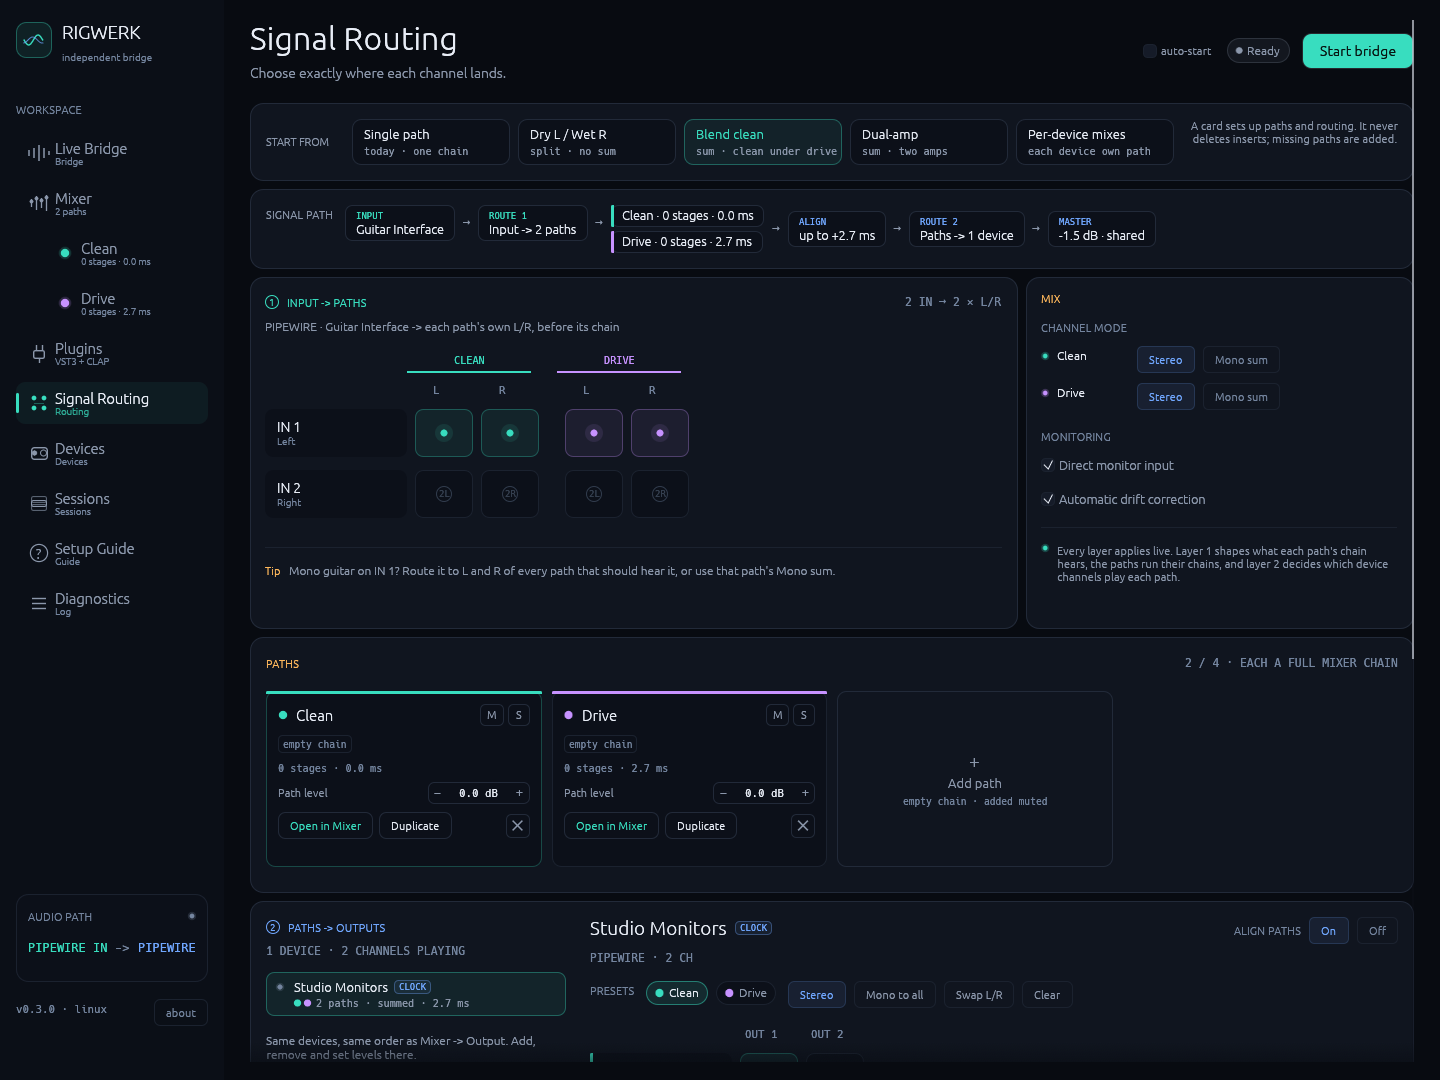
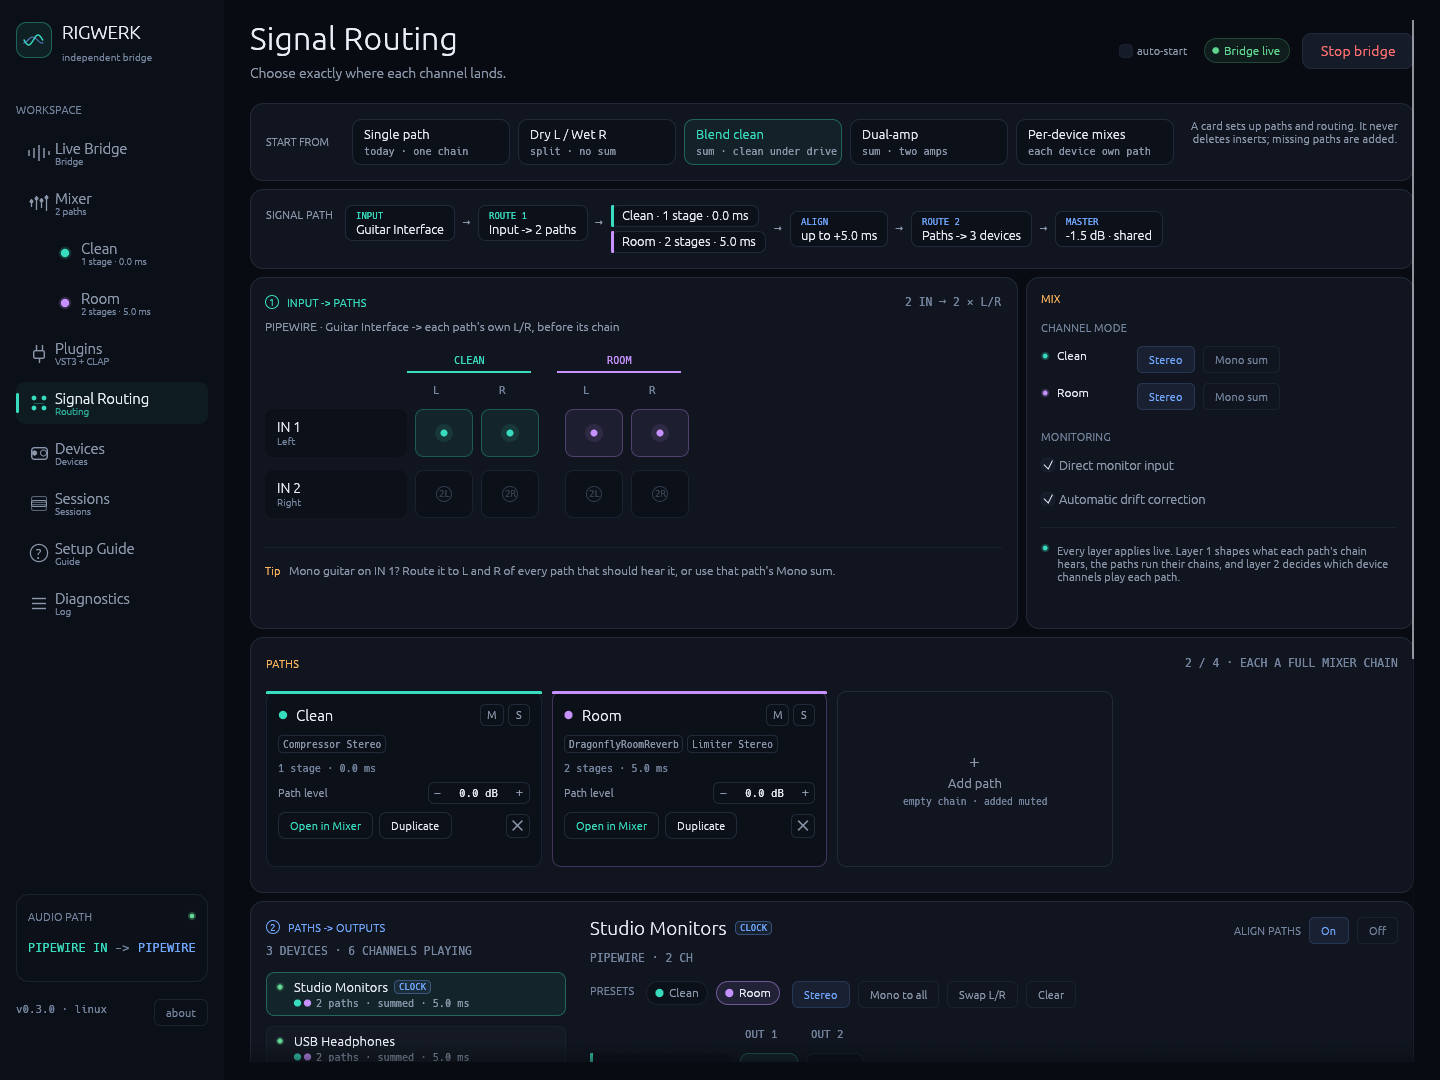
Retake README screenshots with the showcase setup
- Live, Mixer, Signal Routing, Plugins and Devices from one setup: two
  paths with real inserts, three outputs, a running bridge
- Add the Plugins screenshot and document the showcase commands

Claude-Session: https://claude.ai/code/session_018r1ZSrQS7CXbuCRYGBbM1v

diff --git a/README.md b/README.md
@@ -26,6 +26,8 @@ it is ASIO and/or WASAPI. Between them sits an async ring, a short mixer rack
 
 ![Signal Routing](docs/screenshots/routing.png)
 
+![Plugins](docs/screenshots/plugins.png)
+
 ![Devices](docs/screenshots/devices.png)
 
 ## Multiple signal paths
@@ -92,30 +94,41 @@ priority, a plugin chain that overloads the CPU can starve the desktop.
 cargo test
 ```
 
-Screenshots for docs (fixed 1440×1080 window):
+Screenshots for docs (fixed 1440×1080 window). Every README screenshot uses
+the same `showcase` setup: Blend clean (paths Clean and Room) with real
+inserts, a second output sink as a follower plus RigWerk Out, and a running
+bridge.
 
 ```bash
 # Wayland cannot honor client resize; --screenshot drops to X11/XWayland.
-export RIGWERK_ROUTING_SETUP=blend   # Live, Mixer and Routing show two paths
-for page in live mixer routing; do
+export RIGWERK_ROUTING_SETUP=showcase RIGWERK_SCREENSHOT_START=1
+export RIGWERK_SCREENSHOT_PLUGINS="1=/usr/lib/clap/lsp-plugins-clap.clap#Compressor Stereo;\
+2=/usr/lib/vst3/DragonflyRoomReverb.vst3;\
+2=/usr/lib/clap/lsp-plugins-clap.clap#Limiter Stereo"
+for page in live mixer routing plugins devices; do
   RIGWERK_PAGE=$page cargo run --release -- --screenshot docs/screenshots/$page.png
 done
-RIGWERK_PAGE=devices cargo run --release -- --screenshot docs/screenshots/devices.png
 ```
 
-Without a display or sound card, run them under `xvfb-run -a` against the
-PipeWire null-sink graph in `AGENTS.md` (one `Audio/Sink` and one
-`Audio/Source/Virtual` node, `pw-metadata -n settings 0 clock.force-quantum 64`).
+`RIGWERK_SCREENSHOT_START=1` opens the selected devices, so take these
+against a virtual graph, not real hardware. The README set was taken under
+`xvfb-run -a` with the PipeWire null-sink graph from `AGENTS.md`: sinks
+"Studio Monitors" and "USB Headphones", a virtual source "Guitar Interface"
+fed a plucked-string loop through `pw-cat` and `pw-link`, and
+`pw-metadata -n settings 0 clock.force-quantum 64`. The plugins are the
+Debian/Ubuntu `lsp-plugins-clap` and `dragonfly-reverb-vst3` packages.
+`RIGWERK_SCREENSHOT_PLUGINS` is a `;` list of
+`<path number>=<bundle>[#<effect name>]`.
 
 `RIGWERK_PAGE` may be `live`, `mixer`, `routing`, `devices`, `sessions`,
 `plugins`, `guide`, or `diagnostics`.
 `RIGWERK_MIXER_STAGE` selects a Mixer stage: `input`, `pre_eq`, `plugins`,
 `gate`, `post_eq`, `output`, or `device` (the clock device).
 `RIGWERK_ROUTING_SETUP` sets up paths: `drywet`, `sum3`, `blend`,
-`dualamp-off` (alignment off, the red warning) or `live3` (Blend plus an
-empty, unmuted third path). `blend`, `dualamp-off` and `live3` fake the plugin
-latency of one path (no plugin is loaded), so the alignment has something to
-show. `RIGWERK_SCROLL=<px>` scrolls the page down.
+`dualamp-off` (alignment off, the red warning), `live3` (Blend plus an
+empty, unmuted third path) or `showcase` (above). `blend`, `dualamp-off` and
+`live3` fake the plugin latency of one path (no plugin is loaded), so the
+alignment has something to show. `RIGWERK_SCROLL=<px>` scrolls the page down.
 
 ## License
 
